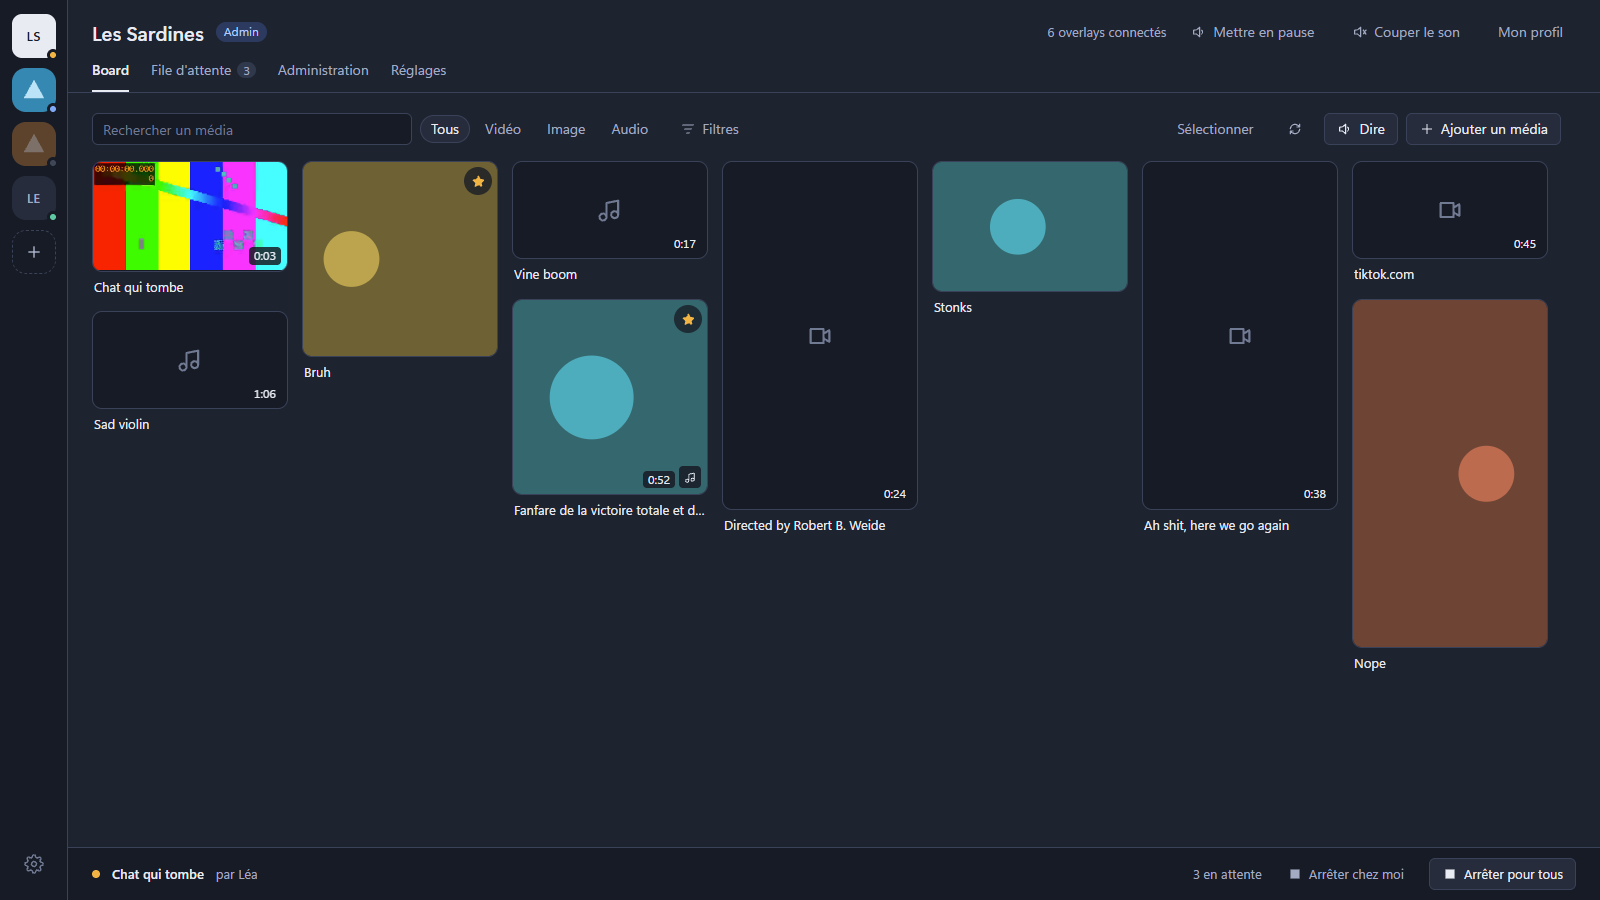
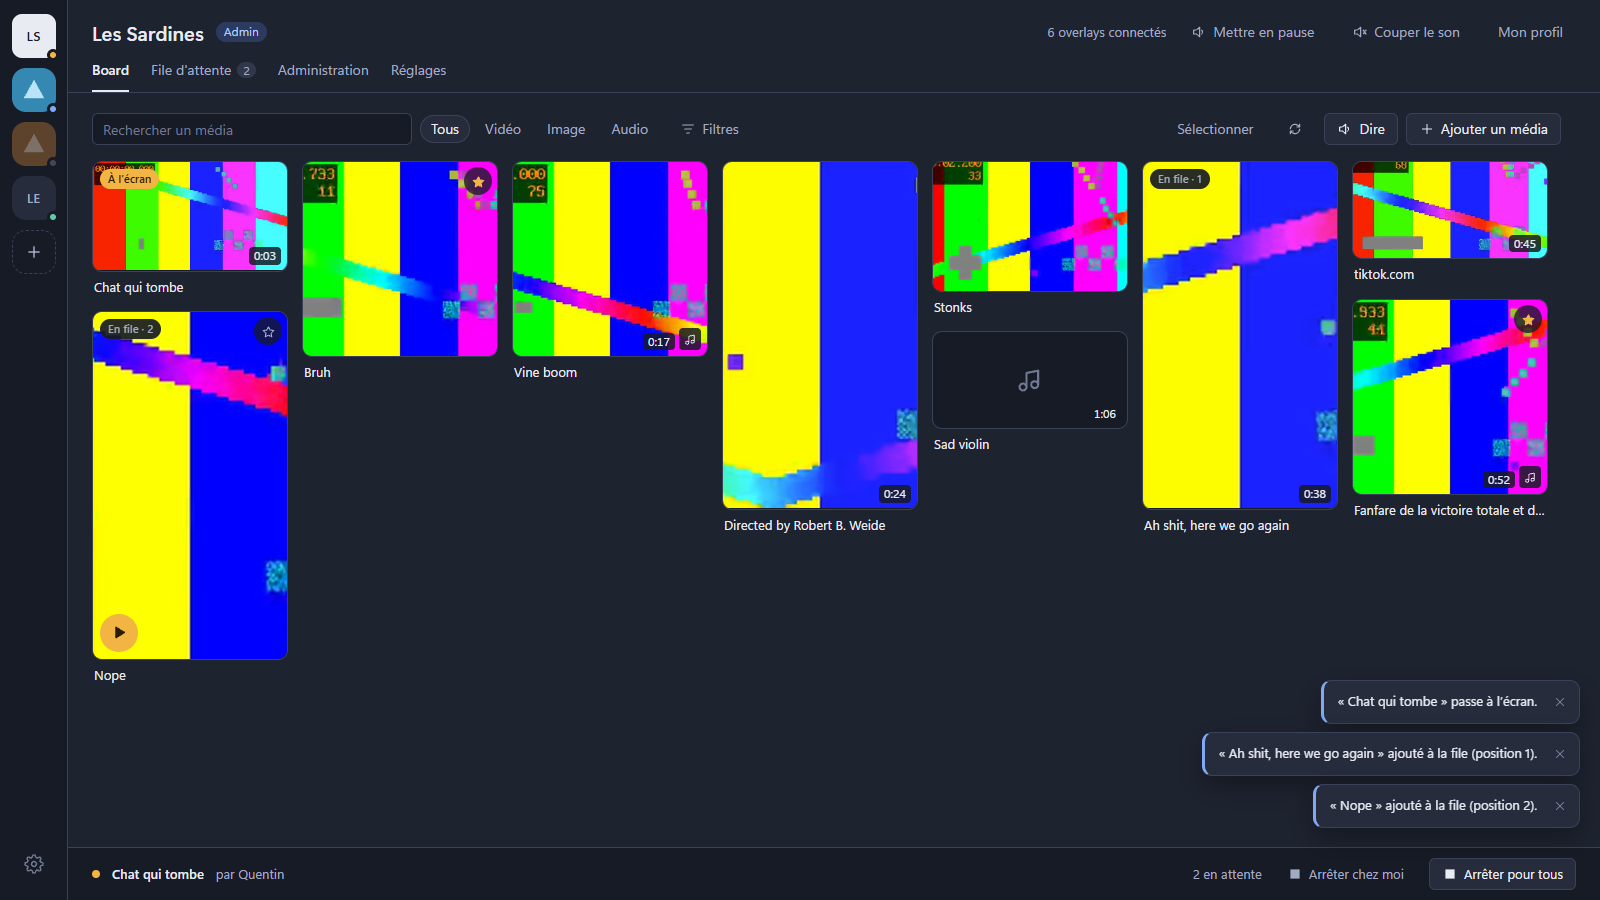
Align the board screenshot with the shipped overlay

diff --git a/apps/lc-overlay/web/app/views/board.js b/apps/lc-overlay/web/app/views/board.js
@@ -45,7 +45,9 @@ import { openUploadMenu, renderUploadCard, startFileUpload, uploadsForGuild } fr
 import { renderView } from './view.js';
 
 registerIcons({
-  star: 'M12 3.5l2.6 5.3 5.9.9-4.3 4.1 1 5.8-5.2-2.7-5.2 2.7 1-5.8-4.3-4.1 5.9-.9z',
+  // Optically centred in its box: the bounding box now spans y 4.35..20.45
+  // (centre 12.4), so the star no longer reads too high in its circle.
+  star: 'M12 4.35l2.6 5.3 5.9.9-4.3 4.1 1 5.8-5.2-2.7-5.2 2.7 1-5.8-4.3-4.1 5.9-.9z',
   filter: 'M4 6h16M7 12h10M10 18h4',
   check: 'M5 12.5l4.5 4.5L19 7',
 });
